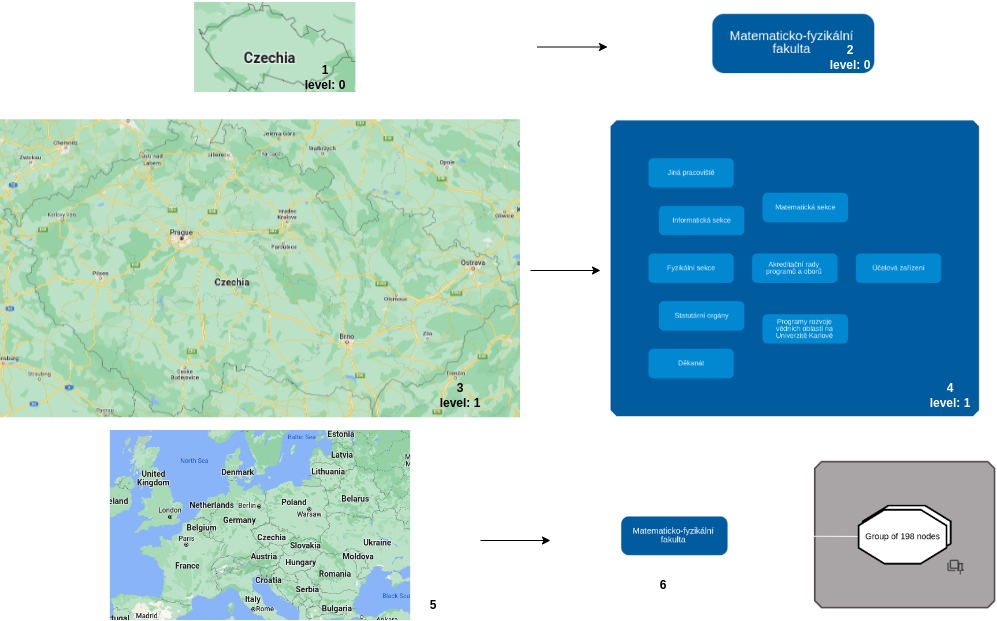
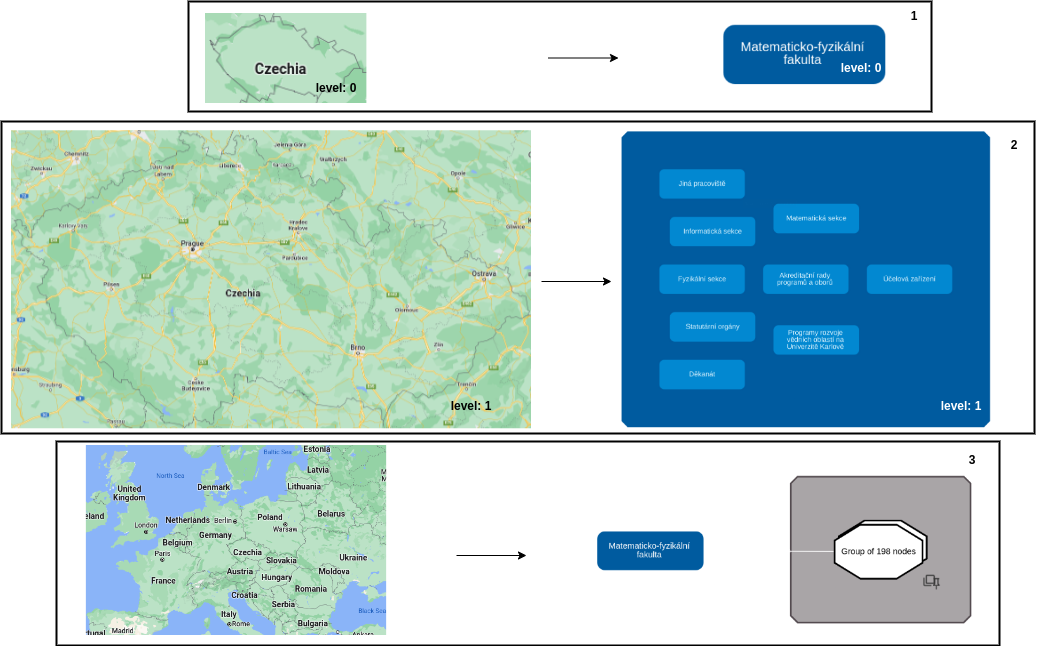
fix typos

diff --git a/scientific_documentation.md b/scientific_documentation.md
@@ -46,7 +46,7 @@ By examining what a good, understandable graph should look like, and relying on 
 
 <h3 id="filtering">Filtering</h3>
 
-The first way to simplify a graph is to use filtering, as it helps users extract and understand the information they need in the graph. The method should allow users to freely select attributes and relationships they are interested in and then use these features to create a small and informative summary graph that reveals the basic characteristics of the nodes and their relationships in the original graph.
+The first way to simplify a graph is to use filtering, as it helps users extract and understand the information they need in the graph. The method should allow users to freely select attributes and relationships they are interested in and then use these features to create a small and informative graph.
 
 <h3 id="layouts">Layouts</h3>
 
@@ -61,9 +61,7 @@ Let's highlight a few criteria that need to be considered in a good layout that 
 
 Unfortunately, it is very difficult and time consuming to implement the own layout, because it requires to make changes in the big part of the Cytoscape library.
 
----
-
-Fortunately, we can still integrate graph simplification techniques with existing layouts to make the graph visualization more user-friendly. To do this, we describe the following five techniques:
+Fortunately, we can still integrate graph simplification techniques with existing layouts to make the graph visualization more user-friendly. To do this, we can describe the following five techniques:
 - [Sparsification. Elimination of redundant edges](#nodes-edges-eliminations)
 - [Summarization](#summarization)
 - [Clustering](#clustering)
@@ -72,7 +70,7 @@ Fortunately, we can still integrate graph simplification techniques with existin
 
 <h4 id="nodes-edges-eliminations">Sparsification. Elimination of redundant edges</h4>
 
-Sparsification is approximating a given graph by a graph with fewer edges. 
+Sparsification is an approximation of a given graph by a graph with fewer edges.
 
 An example is shown in Figure 1 below.
 
@@ -143,7 +141,7 @@ The main visual tricks:
 This technique allows to show only those nodes that are of interest to the user. This method also hides redundant nodes (or background) or makes them less visible to the user. A possible implementation of such a technique is shown in Figure 4 below.
 
 <p align="center">
-    <img src="img/hiding_background.png" alt="hiding_nodes" title="Hiding nodes" width="500"/><br/>
+    <img src="img/hiding_background.png" alt="hiding_nodes" title="Hiding nodes" width="600"/><br/>
     <em>Figure 4. Hiding redundant nodes [9].</em>
 </p>
 
@@ -154,7 +152,7 @@ However, this technique has already been implemented in the Knowledge Graph Visu
 The second approach is to highlight key nodes or areas (clusters) of nodes that may be of interest to the user. The most important nodes can also be larger than others. An example of such a representation is shown in Figure 5.
 
 <p align="center">
-    <img src="img/node_highlighting.png" alt="node_highlighting" title="Node highlighting" width="600"/><br/>
+    <img src="img/node_highlighting.png" alt="node_highlighting" title="Node highlighting" width="750"/><br/>
     <em>Figure 5. Node and edge highlighting [10].</em>
 </p>
 
@@ -162,9 +160,9 @@ The disadvantage of this method is that it only improves visual perception, but 
 
 <h4 id="node-aggregation">Node aggregation</h4>
 
-Node aggregation is an example of [graph coarsening](#coarsening). A coarsened graph consists of aggregated nodes. But this is not what we want to do, because in this way we will lose other nodes and edges that may need to be restored. It would be much better to still be able to reveal nodes and edges hidden within aggregated nodes.
+Node aggregation is an example of [graph coarsening](#coarsening). A coarsened graph consists of aggregated nodes. But this is exactly not what we want to do, because in this way we will lose other nodes and edges that may need to be restored (shown) in future. It would be much better to still be able to reveal nodes and edges hidden within aggregated nodes.
 
-However, this can cause a problem in the Knowledge Graph Visual browser, because there are detailed queries that are used to display node details, and if we aggregate nodes, it will not be possible to display details of aggregated nodes because they will be auxiliary and will not exist in the database. The same can be said for expansion and preview requests. Thus, we may lose all the functionality that the Knowledge Graph visual browser provides.
+However, this can cause a problem in the Knowledge Graph Visual browser, because there are detailed queries that are used to display node details, and if we aggregate nodes, it will not be possible to display details of aggregated nodes because they will be auxiliary and will not exist in the database. The same can be said for expansion and preview queries. Thus, we may lose all the functionality that the Knowledge Graph visual browser provides.
 
 To solve this problem, can use a trick: if the user clicks on the aggregated node, a browser will display the internals of that aggregated node. The Cambridge Intelligence call this approach as [combos](https://cambridge-intelligence.com/combos/). 
 
@@ -186,12 +184,12 @@ As the result of discussions I can conclude following:
 - [Filtering](#filtering) is a good approach, but to use it, the user must know the graph in advance so that he can filter the nodes he wants to see. This approach also correlates with the topic of another student (Jiří Resler), so my supervisor and I decided not to consider.
 - Users didn't like [Sparsification](#nodes-edges-eliminations) approach because it removes all redundant edges, which can be helpful in understanding the story the graph represents.
 - [Condensation](#condensation). This is the first technique implemented. I implemented it just to understand the Knowledge Graph Visual Browser implementation and how it works. The idea was to use the graph condensation method and create a new graph consisting of nodes that represent strongly connected components in the original graph. 
-- [Summarization](#summarization) (also [Node aggregation](#node-aggregation)) sums up clustering and coarsening. This approach was preferred by working colleagues with only the remark that it would be possible to restore the details.
+- [Summarization](#summarization) (also [Node aggregation](#node-aggregation)) sums up clustering and coarsening approaches. This approach was preferred by working colleagues with only the remark that it would be useful to add the possibility to restore the details.
 - Personally, I did not like the [Sequential layout](#sequential-layout), but still wanted to receive feedbacks from colleagues. They said it is a very user-friendly layout, easy to understand and looks like "Tree of life". So I left it in case I didn't find a better solution.
 - The [background hiding](#background-hiding) method has also received good reviews. However, this can only display the area of the graph that the user wants to see and does not make it easier to present the graph as a whole.
 - I showed users the [node highlighting](#highlighting-key-nodes-and-edges) example shown in Figure 5. They found the graph too complex, but they liked that the clusters of nodes can be easily seen and that the key nodes are shown larger than the other nodes. 
 
-Based on the results of the survey, I was convinced for myself that the approach described in section "[Node aggregation](#node-aggregation)" is best suited. I presented this approach to my supervisor and two weeks later he told me that he had found a customer who is interested in this approach. The customer was the Charles University and the topic was "Departments and subjects".
+Based on the results of the survey, I convinced myself that the approach described in section "[Node aggregation](#node-aggregation)" is best suited. I presented this approach to my supervisor and two weeks later he told me that he had found a customer who is interested in this approach. The customer was the Charles University and the topic was "Departments and subjects".
 
 After several studies, we can state the following several conceptual criteria:
 
@@ -212,13 +210,13 @@ But there are more questions:
 The first draft of the approach is shown in the Figure 6 below.
 
 <p align="center">
-    <img src="img/firts_draft_diagram.png" alt="first_draft" title="First draft" width="800"/><br/>
-    <em>Figure 6. First draft.</em>
+    <img src="img/firts_draft_diagram.png" alt="first_draft" title="First draft" width="1000"/><br/>
+    <em>Figure 6. First draft. It is a concept representing the main idea used in the final approach. It represents different hierarchies and hierarchical as well as non-hierarchical relationships.</em>
 </p>
 
 From this point on, we can introduce the term "[hierarchy](https://github.com/Razyapoo/KGBClusteringDocumentation/blob/main/user_documentation.md#hierarchical-relationship)" into use and formulate the following main criteria:
 - There can be [hierarchical](https://github.com/Razyapoo/KGBClusteringDocumentation/blob/main/user_documentation.md#hierarchical-relationship) and [non-hierarchical](https://github.com/Razyapoo/KGBClusteringDocumentation/blob/main/user_documentation.md#non-hierarchical-relationship-) (ordinary, represented by an edge) relationships between nodes
-- A parent node is an aggregation of child nodes placed inside
+- A parent node may be interpreted as an aggregation of child nodes placed inside
 - The [hierarchical expansion](https://github.com/Razyapoo/KGBClusteringDocumentation/blob/main/user_documentation.md#hierarchical-expansions) (from the list of available expansions) must show the expansion [within (inside)](https://github.com/Razyapoo/KGBClusteringDocumentation/blob/main/user_documentation.md#hierarchical-relationship) the expanded node
 - It should be possible in the configuration to determine if the relationship is hierarchical or non-hierarchical
 - A non-hierarchical edge can lead between nodes placed in the different hierarchies, even if one of them or both contain child nodes inside
@@ -229,8 +227,8 @@ From this point on, we can introduce the term "[hierarchy](https://github.com/Ra
 We also introduce the map-style zoom used in mapping platforms, so that when you zoom in, you see more detail in terms of nodes, and when you zoom out, you see less detail in terms of nodes. In analogy with maps, we introduce the concept of [hierarchical levels](https://github.com/Razyapoo/KGBClusteringDocumentation/blob/main/user_documentation.md#hierarchical-level). An example is shown in the Figure 7 below. 
 
 <p align="center">
-    <img src="img/map_style_zoom.png" alt="map_style_zoom" title="Map style zoom" width="600"/><br/>
-    <em>Figure 7. Map-style zoom (screenshots 1-6). Czechia (google maps, screenshot 1), which is placed at the level 0, is an aggregation of cities placed at the level 1 (google maps, screenshot 3), and analogously, MFF (screenshot 2), which is placed at the level 0, is an aggregation of departments placed at the level 1 (screenshot 4). In case there are several different hierarchical groups, the highest abstract level will show the last ancestor of each hierarchy and they will not be grouped or collapsed (screenshots 5 (google maps, countries) and 6 (departments and subjects)).</em>
+    <img src="img/map_style_zoom.png" alt="map_style_zoom" title="Map style zoom" width="900"/><br/>
+    <em>Figure 7. Map-style zoom (screenshots 1-3). Czechia (google maps, screenshot 1, left), which is placed at the level 0, is an aggregation of cities placed at the level 1 (google maps, screenshot 2, left), and analogously, MFF (screenshot 1, right), which is placed at the level 0, is an aggregation of departments placed at the level 1 (screenshot 2, right). In case there are several different hierarchical groups, the highest abstract level will show the last ancestor of each hierarchy and they will not be grouped or collapsed (screenshots 3, left - google maps, countries and right - departments and subjects).</em>
 </p>
 
 The point is not to stick with the "Departments and Subjects" topic only, but to make it abstract and reusable with other topics.
@@ -239,7 +237,7 @@ The following section describes the final approach proposed in this paper.
 
 <h2 id="grouping-of-clusters-extension">4. Grouping of clusters</h2>
 
-This part (also available [here](https://github.com/Razyapoo/KGBClusteringDocumentation/blob/main/Research%20paper%20for%20Knowledge%20Graph%20Browser.docx)) will be used as a contribution to [the original article](https://www.sciencedirect.com/science/article/pii/S1570826822000105#b2).
+This part (also available [here](https://github.com/Razyapoo/KGBClusteringDocumentation/blob/main/Research%20paper%20for%20Knowledge%20Graph%20Browser.docx)) is used as a contribution to [the original article](https://www.sciencedirect.com/science/article/pii/S1570826822000105#b2).
 
 The "Grouping of clusters" algorithm first clusters the nodes into a [cluster](https://github.com/Razyapoo/KGBClusteringDocumentation/blob/main/user_documentation.md#cluster), and then collapses that cluster into a single group node. The clustering of nodes is determined based on the [hierarchical class](https://github.com/Razyapoo/KGBClusteringDocumentation/blob/main/user_documentation.md#hierarchical-class), the parent node, the [level of the hierarchy](https://github.com/Razyapoo/KGBClusteringDocumentation/blob/main/user_documentation.md#hierarchical-level) in which the node resides, and the visual class. Full description of the approach is available [here](https://github.com/Razyapoo/KGBClusteringDocumentation/blob/main/user_documentation.md#grouping-of-clusters).
 
@@ -248,7 +246,7 @@ The visual configuration is extended with [visual layout constraints](https://gi
 Figure 8 below shows the extension of the ontology as a UML class diagram. 
 
 <p align="center">
-    <img src="img/extension_diagram.jpg" alt="extension_diagram" title="Extension diagram" width="600"/><br/>
+    <img src="img/extension_diagram.jpg" alt="extension_diagram" title="Extension diagram" width="800"/><br/>
     <em>Figure 8. Extended Knowledge Graph Visual Browser ontology for defining extended visual configurations.</em>
 </p>
 
@@ -317,7 +315,7 @@ This way, the user opens a group of nodes having tema visual class. The visual c
     <em>Figure 13. Scaling options. The user selects “Grouping of clusters” option.</em>
 </p>
 
-The user then decides to utilize the “[Grouping of clusters](https://github.com/Razyapoo/KGBClusteringDocumentation/blob/main/user_documentation.md#grouping-of-clusters)” technique which brings the zoom approach used in mapping platforms to the Knowledge Graph Visual Browser. The user selects the “Grouping of clusters” option in the checkbox (Figure 13) and clicks the “minus” button. The client then groups nodes on the [current hierarchical level](https://github.com/Razyapoo/KGBClusteringDocumentation/blob/main/user_documentation.md#current-hierarchical-level) (Figure 14, screenshot 1). Then the user decides to go further and clicks multiple times the “minus” button. After a few iterations, the user gets the result shown on Figure 14, screenshot 2. The user clicks the “minus” button once again, and at this time the client collapses the child group into its Matematicka sekce parent node (Figure 14, screenshot 3). After a few more iterations with the “minus” button, the user gets to the state where the graph cannot be collapsed further (Figure 14, screenshot 4). This state represents the highest abstract level of the hierarchy. In this state, the graph shows the least amount of detail possible. 
+The user then decides to utilize the “[Grouping of clusters](https://github.com/Razyapoo/KGBClusteringDocumentation/blob/main/user_documentation.md#grouping-of-clusters)” technique which brings the zoom approach used in mapping platforms to the Knowledge Graph Visual Browser. The user selects the “Grouping of clusters” option in the checkbox (Figure 13) and clicks the “minus” button. The client then groups nodes placed on the [current hierarchical level](https://github.com/Razyapoo/KGBClusteringDocumentation/blob/main/user_documentation.md#current-hierarchical-level) (Figure 14, screenshot 1). Then the user decides to go further and clicks multiple times the “minus” button. After a few iterations, the user gets the result shown on Figure 14, screenshot 2. The user clicks the “minus” button once again, and at this time the client collapses the child group into its Matematicka sekce parent node (Figure 14, screenshot 3). After a few more iterations with the “minus” button, the user gets to the state where the graph cannot be collapsed further (Figure 14, screenshot 4). This state represents the highest abstract level of the hierarchy. In this state, the graph shows the least amount of detail possible. 
 
 <p align="center">
     <img src="img/grouping_of_clusters.png" alt="grouping_of_clusters" title="Grouping of clusters" width="900"/><br/>

diff --git a/technical_documentation.md b/technical_documentation.md
@@ -367,11 +367,11 @@ There are two cases:
     > In such case the [current hierarchical level](#current-hierarchical-level-glossary) increases by 1.
 
 
-In case there are several different hierarchical groups, the highest abstract level will show the last ancestor of each hierarchy and they will not be grouped or collapsed (Figure 8, screenshots 1 and 2).
+In case there are several different hierarchical groups, the highest abstract level will show the last ancestor of each hierarchy and they will not be grouped or collapsed (Figure 8).
 
 <p align="center">
     <img src="img/map_style_zoom_highest.png" alt="map_style_zoom_highest" title="Map style zoom highest level" width="700"/><br/>
-    <em>Figure 8. Map style zoom highest abstract level. Screenshot 1 shows an example from google maps. Screenshot 2 shows an example from Knowledge Graph Visual Browser.</em>
+    <em>Figure 8. Map style zoom highest abstract level. Left side - an example from google maps. Right side - an example from Knowledge Graph Visual Browser.</em>
 </p>
 
 <h3 id="extension-of-the-graph-manipulator">Extension of the GraphManipulator.ts</h3>

diff --git a/user_documentation.md b/user_documentation.md
@@ -211,11 +211,11 @@ There are two cases:
     > **Note** \
     > In such case the [current hierarchical level](#current-hierarchical-level-glossary) increases by 1.
 
-In case there are several different hierarchical groups, the highest abstract level will show the last ancestor of each hierarchy and they will not be grouped or collapsed (Figure 9, screenshots 1 and 2).
+In case there are several different hierarchical groups, the highest abstract level will show the last ancestor of each hierarchy and they will not be grouped or collapsed (Figure 9).
 
 <p align="center">
     <img src="img/map_style_zoom_highest.png" alt="map_style_zoom_highest" title="Map style zoom highest level" width="700"/><br/>
-    <em>Figure 9. Map style zoom highest abstract level. Screenshot 1 shows an example from google maps. Screenshot 2 shows an example from Knowledge Graph Visual Browser.</em>
+    <em>Figure 9. Map style zoom highest abstract level. Left side - an example from google maps. Right side - an example from Knowledge Graph Visual Browser.</em>
 </p>
 
 <h3 id="node-removal-glossary">Node removal</h3>
